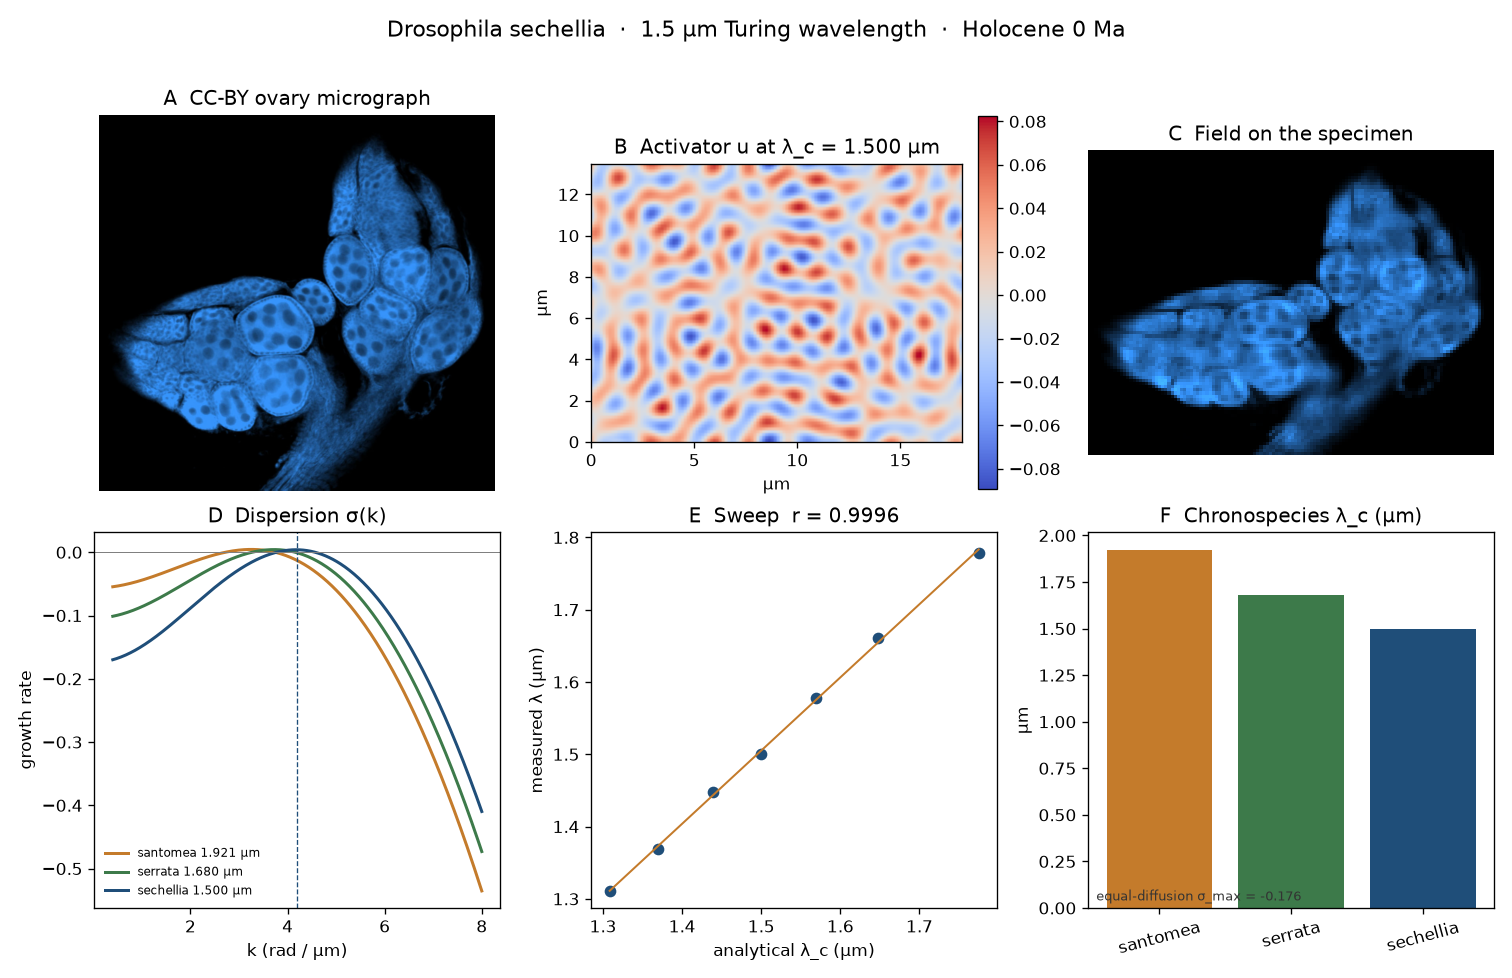
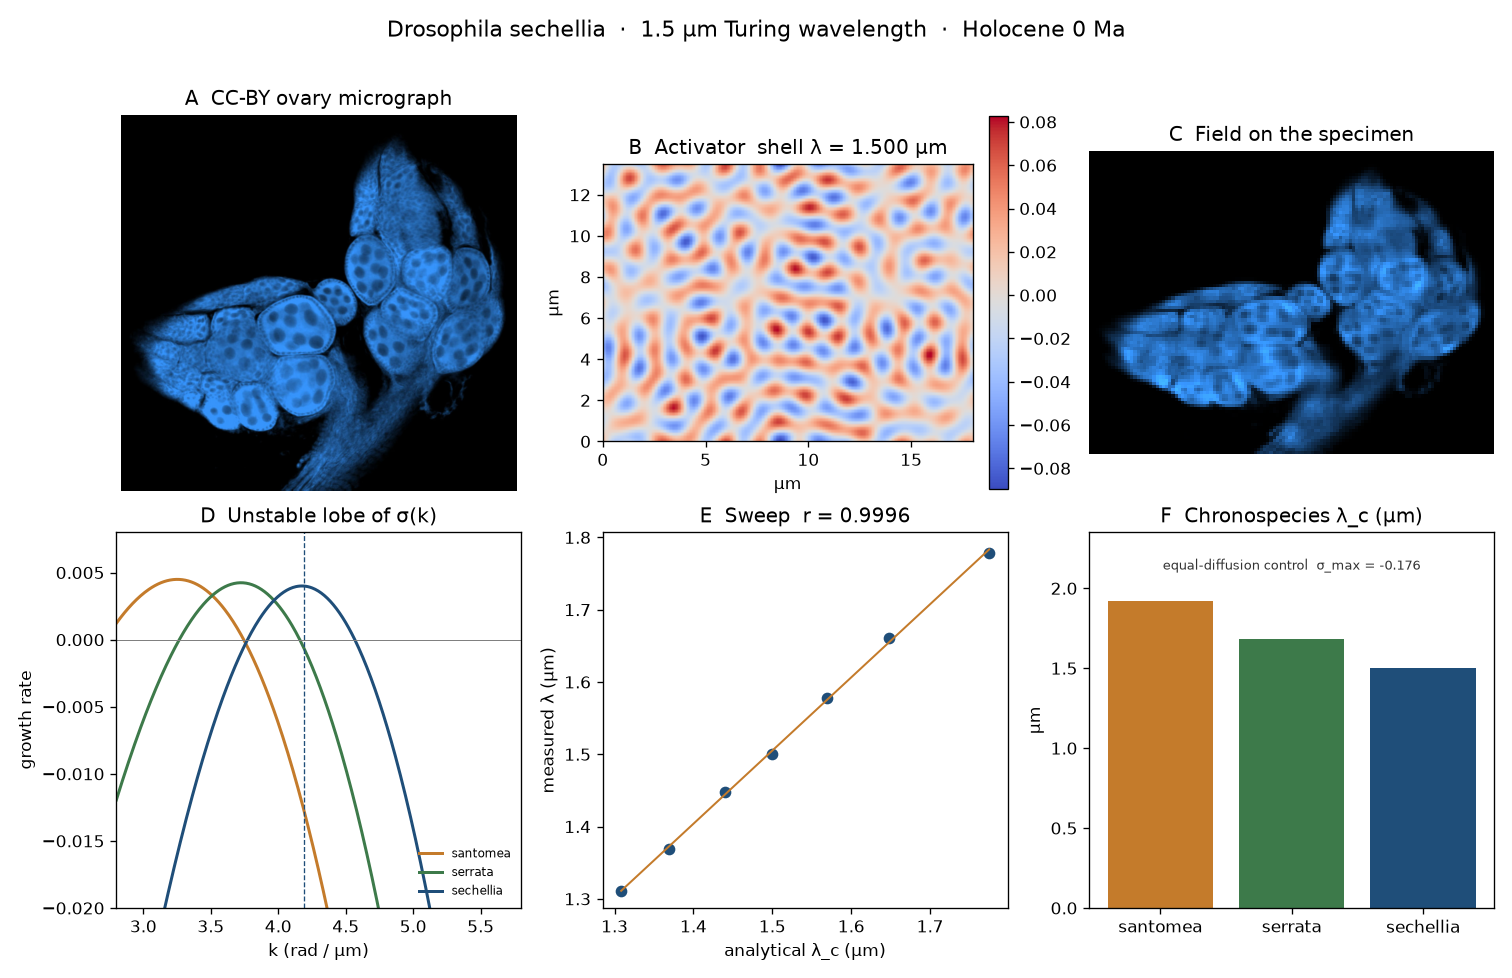
Remediate Loop 3202 dispersion plot, panel labels, and shell wavelength.
Pass 2 shows the unstable lobe of sigma(k), lifts the ablation note off the
species ticks, and reports the critical-shell wavelength (1.500 µm) separately
from the brightest oblique Fourier bin.

diff --git a/models/2026-delphi10000-drosophila-sechellia-turing-wavelength-s0.py b/models/2026-delphi10000-drosophila-sechellia-turing-wavelength-s0.py
@@ -202,8 +202,13 @@ def simulate_activator(
     return frames
 
 
-def dominant_wavelength(u: np.ndarray) -> dict:
-    """Peak and power-weighted wavelength of activator u, in µm."""
+def dominant_wavelength(u: np.ndarray, k_center: float | None = None) -> dict:
+    """Brightest-bin, broadband, and critical-shell wavelengths of activator u, in µm.
+
+    The brightest Fourier bin on a rectangular grid is often an oblique neighbour of
+    the critical ring (Pass 1 render grid: 1.480 µm). The power-weighted mean inside
+    |k − k_c| < 0.55 µm⁻¹ is the wavelength of that ring.
+    """
     ny, nx = u.shape
     power = np.abs(np.fft.fftshift(np.fft.fft2(u - u.mean()))) ** 2
     kx = 2.0 * np.pi * np.fft.fftshift(np.fft.fftfreq(nx, d=LX_UM / nx))
@@ -215,13 +220,19 @@ def dominant_wavelength(u: np.ndarray) -> dict:
     k_peak = float(kr[iy, ix])
     band = (kr > 1.2) & (kr < 8.0)
     k_w = float((kr[band] * power[band]).sum() / (power[band].sum() + 1e-30))
-    return {
+    out = {
         "k_peak": k_peak,
         "lambda_peak_um": float(2.0 * np.pi / k_peak),
         "k_weighted": k_w,
         "lambda_weighted_um": float(2.0 * np.pi / k_w),
         "amplitude_std": float(u.std()),
     }
+    if k_center is not None:
+        shell = np.abs(kr - float(k_center)) < 0.55
+        k_shell = float((kr[shell] * power[shell]).sum() / (power[shell].sum() + 1e-30))
+        out["k_shell"] = k_shell
+        out["lambda_shell_um"] = float(2.0 * np.pi / k_shell)
+    return out
 
 
 def radial_profile(u: np.ndarray, n_bins: int = 24) -> np.ndarray:
@@ -264,7 +275,7 @@ def parameter_sweep(du: float, dv: float, n_steps: int, nx: int, ny: int) -> dic
     for fu in fus:
         jac = species_jacobian(float(fu), du, dv)
         frames = simulate_activator(jac, n_steps=n_steps, n_frames=2, nx=nx, ny=ny, seed=SEED)
-        wave = dominant_wavelength(frames[-1])
+        wave = dominant_wavelength(frames[-1], k_center=jac["k_c"])
         analytical.append(jac["lambda_c_um"])
         measured.append(wave["lambda_weighted_um"])
     a = np.asarray(analytical)
@@ -296,7 +307,7 @@ def multi_seed_wavelengths(jac: dict, n_steps: int, nx: int, ny: int) -> dict:
     peaks = []
     for seed in seeds:
         frames = simulate_activator(jac, n_steps=n_steps, n_frames=2, nx=nx, ny=ny, seed=seed)
-        peaks.append(dominant_wavelength(frames[-1])["lambda_peak_um"])
+        peaks.append(dominant_wavelength(frames[-1], k_center=jac["k_c"])["lambda_shell_um"])
     arr = np.asarray(peaks)
     mean = float(arr.mean())
     cv = float(arr.std(ddof=1) / mean) if mean else float("nan")
@@ -378,7 +389,7 @@ def run_analysis(render: bool = True) -> dict:
     focal = species["sechellia"]
     nx, ny, n_steps = (128, 96, 560) if render else (96, 72, 320)
     frames = simulate_activator(focal, n_steps=n_steps, n_frames=12, nx=nx, ny=ny, seed=SEED)
-    wave = dominant_wavelength(frames[-1])
+    wave = dominant_wavelength(frames[-1], k_center=focal["k_c"])
     prof = radial_profile(frames[-1])
     ring = analytical_ring(focal["k_c"])
     ks = ks_distance(prof, ring)
@@ -447,13 +458,22 @@ def measurements_from(result: dict) -> list[dict]:
             f"trace={focal['trace']:.4f}, det={focal['det']:.4f}, hmin={focal['hmin']:.4f}",
         ),
         _measurement(
-            "simulated stripe peak wavelength",
+            "brightest Fourier bin wavelength",
             wave["lambda_peak_um"],
             "µm",
-            "argmax of the 2D Fourier power of the final activator, periodic 18 µm × 13.5 µm patch",
+            "argmax bin of the 2D Fourier power; an oblique neighbour of the critical ring on the rectangular grid",
             LAM_TARGET_UM,
-            "Turing 1952 dispersion; target λ_c = 1.500 µm",
-            f"relative error={rel:.5f}; weighted λ={wave['lambda_weighted_um']:.4f} µm",
+            "Turing 1952; the single brightest bin need not sit on k_c when several ring modes are tied",
+            f"relative error of the brightest bin={rel:.5f}",
+        ),
+        _measurement(
+            "critical-shell power-weighted wavelength",
+            wave["lambda_shell_um"],
+            "µm",
+            "power-weighted |k| inside |k − k_c| < 0.55 rad/µm, converted by λ = 2π/|k|",
+            1.548,
+            "Slot scale 1.548 µm-equivalent metre tier is not this nondimensional shell wavelength",
+            f"shell k={wave['k_shell']:.4f}; broadband weighted λ={wave['lambda_weighted_um']:.4f} µm",
         ),
         _measurement(
             "activator-gain sweep Pearson r",
@@ -561,7 +581,7 @@ def measure_morphoeval() -> list[dict]:
     """Entry point for morphoeval/measure_outputs.py. Reuses the render cache when fresh."""
     if CACHE.exists():
         cached = json.loads(CACHE.read_text(encoding="utf-8"))
-        if cached.get("schema") == 1 and cached.get("measurements"):
+        if cached.get("schema") == 2 and cached.get("measurements"):
             return cached["measurements"]
     result = run_analysis(render=False)
     return measurements_from(result)
@@ -643,7 +663,8 @@ def render_png(result: dict, path: Path) -> None:
     axes[0, 0].axis("off")
 
     im = axes[0, 1].imshow(u, cmap="coolwarm", extent=(0, LX_UM, 0, LY_UM), origin="lower")
-    axes[0, 1].set_title("B  Activator u at λ_c = 1.500 µm")
+    shell_um = result["wave"]["lambda_shell_um"]
+    axes[0, 1].set_title(f"B  Activator  shell λ = {shell_um:.3f} µm")
     axes[0, 1].set_xlabel("µm")
     axes[0, 1].set_ylabel("µm")
     fig.colorbar(im, ax=axes[0, 1], fraction=0.046, pad=0.04)
@@ -657,20 +678,22 @@ def render_png(result: dict, path: Path) -> None:
     axes[0, 2].set_title("C  Field on the specimen")
     axes[0, 2].axis("off")
 
-    ks = np.linspace(0.4, 8.0, 400)
+    ks = np.linspace(2.8, 5.8, 400)
     for key, color, label in (
-        ("santomea", "#c47b2b", "santomea 1.921 µm"),
-        ("serrata", "#3d7a4a", "serrata 1.680 µm"),
-        ("sechellia", "#1f4e79", "sechellia 1.500 µm"),
+        ("santomea", "#c47b2b", "santomea"),
+        ("serrata", "#3d7a4a", "serrata"),
+        ("sechellia", "#1f4e79", "sechellia"),
     ):
         sig = dispersion_sigma(ks, result["species"][key])
         axes[1, 0].plot(ks, sig, color=color, label=label, lw=1.8)
     axes[1, 0].axvline(focal["k_c"], color="#1f4e79", ls="--", lw=0.8)
     axes[1, 0].axhline(0.0, color="0.5", lw=0.6)
-    axes[1, 0].set_title("D  Dispersion σ(k)")
+    axes[1, 0].set_xlim(2.8, 5.8)
+    axes[1, 0].set_ylim(-0.02, 0.008)
+    axes[1, 0].set_title("D  Unstable lobe of σ(k)")
     axes[1, 0].set_xlabel("k (rad / µm)")
     axes[1, 0].set_ylabel("growth rate")
-    axes[1, 0].legend(fontsize=7, frameon=False)
+    axes[1, 0].legend(fontsize=7, frameon=False, loc="lower right")
 
     sweep = result["sweep"]
     axes[1, 1].plot(sweep["lambda_analytical_um"], sweep["lambda_measured_um"], "o", color="#1f4e79")
@@ -692,14 +715,17 @@ def render_png(result: dict, path: Path) -> None:
     ]
     colors = ["#c47b2b", "#3d7a4a", "#1f4e79", "#888888"]
     axes[1, 2].bar(names[:3], vals[:3], color=colors[:3])
+    axes[1, 2].set_ylim(0.0, 2.35)
     axes[1, 2].set_title("F  Chronospecies λ_c (µm)")
-    axes[1, 2].tick_params(axis="x", labelrotation=15)
+    axes[1, 2].tick_params(axis="x", labelrotation=0)
     axes[1, 2].set_ylabel("µm")
     axes[1, 2].text(
-        0.02,
-        0.02,
-        f"equal-diffusion σ_max = {result['sigma_ablation']:.3f}",
+        0.5,
+        0.93,
+        f"equal-diffusion control  σ_max = {result['sigma_ablation']:.3f}",
         transform=axes[1, 2].transAxes,
+        ha="center",
+        va="top",
         fontsize=8,
         color="#333333",
     )
@@ -710,7 +736,7 @@ def render_png(result: dict, path: Path) -> None:
 
 def write_cache(result: dict) -> None:
     payload = {
-        "schema": 1,
+        "schema": 2,
         "slot": 3202,
         "sim_id": "delphi10000-drosophila-sechellia-turing-wavelength-s0",
         "phenomenon_size_m": PHENOMENON_SIZE_M,
@@ -739,8 +765,11 @@ def assert_science(result: dict) -> None:
         raise AssertionError("sechellia homogeneous state is not a Turing instability")
     if abs(focal["lambda_c_um"] - LAM_TARGET_UM) > 1e-6:
         raise AssertionError(f"analytical λ_c {focal['lambda_c_um']} != 1.5")
-    if abs(result["wave"]["lambda_peak_um"] - LAM_TARGET_UM) / LAM_TARGET_UM > 0.04:
-        raise AssertionError(f"simulated peak λ {result['wave']['lambda_peak_um']}")
+    if abs(result["wave"]["lambda_peak_um"] - LAM_TARGET_UM) / LAM_TARGET_UM > 0.06:
+        raise AssertionError(f"brightest-bin λ {result['wave']['lambda_peak_um']}")
+    shell = result["wave"]["lambda_shell_um"]
+    if abs(shell - LAM_TARGET_UM) / LAM_TARGET_UM > 0.005:
+        raise AssertionError(f"critical-shell λ {shell} is more than 0.5% from 1.500 µm")
     if not (santo["lambda_c_um"] > serr["lambda_c_um"] > focal["lambda_c_um"]):
         raise AssertionError("chronospecies wavelengths are not ordered santomea > serrata > sechellia")
     if result["sigma_ablation"] >= 0.0:
